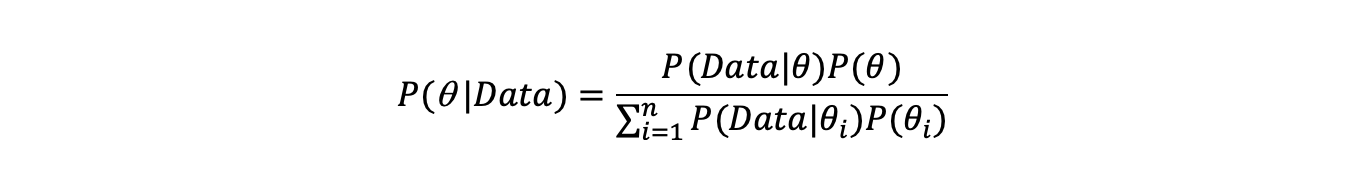
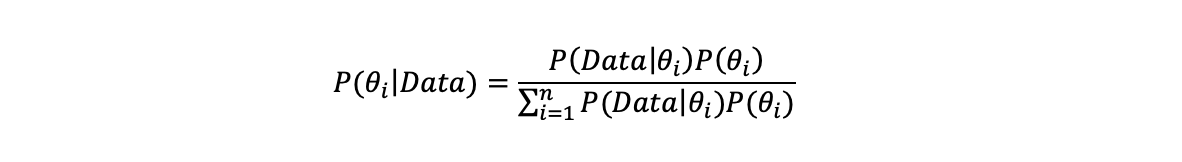
fix typos

Changed region(s): [[0.2741, 0.2778, 0.7005, 0.8025]]

diff --git a/technical/bayes1/index.html b/technical/bayes1/index.html
@@ -9,7 +9,7 @@
 <meta name="keywords" content="technical" />
 <meta name="description" content="Ilke Sahin&rsquo;s &lsquo;Water Canals (Aquaducts)&rsquo; at Goldsmiths degree show 2024
 This note reviews some basic aspects of Bayesian inference to refresh my knowledge of it and some of the probability distributions it often uses.
-1. Finding the most probable parameters given the data using Bayes’ theorem We want to find the best hypothesis or model parameter(s) that describes the data. Bayes’ theorem allows us to write down the formula for the probability of model parameters or hypotheses given the data.">
+1. Finding the most probable parameters given the data using Bayes’ theorem We want to find the best hypothesis or model parameter(s) that describes the data. Bayes’ theorem allows us to write down a general formula for this:">
 <meta name="author" content="John Davies">
 <link rel="canonical" href="https://johnardavies.github.io/technical/bayes1/" />
 <link crossorigin="anonymous" href="https://johnardavies.github.io/assets/css/stylesheet.min.5e2b4101351c21e906f398ae96901791830f58d430f96f2659dab7eaef7b3cb7.css" integrity="sha256-XitBATUcIekG85iulpAXkYMPWNQw&#43;W8mWdq36u97PLc=" rel="preload stylesheet" as="style">
@@ -56,7 +56,7 @@ if (!doNotTrack) {
 <meta property="og:title" content="Bayes 1: Introduction to Bayesian inference" />
 <meta property="og:description" content="Ilke Sahin&rsquo;s &lsquo;Water Canals (Aquaducts)&rsquo; at Goldsmiths degree show 2024
 This note reviews some basic aspects of Bayesian inference to refresh my knowledge of it and some of the probability distributions it often uses.
-1. Finding the most probable parameters given the data using Bayes’ theorem We want to find the best hypothesis or model parameter(s) that describes the data. Bayes’ theorem allows us to write down the formula for the probability of model parameters or hypotheses given the data." />
+1. Finding the most probable parameters given the data using Bayes’ theorem We want to find the best hypothesis or model parameter(s) that describes the data. Bayes’ theorem allows us to write down a general formula for this:" />
 <meta property="og:type" content="article" />
 <meta property="og:url" content="https://johnardavies.github.io/technical/bayes1/" />
 <meta property="og:image" content="https://johnardavies.github.io/ilkesahin.jpeg" /><meta property="article:section" content="technical" />
@@ -68,7 +68,7 @@ This note reviews some basic aspects of Bayesian inference to refresh my knowled
 <meta name="twitter:title" content="Bayes 1: Introduction to Bayesian inference"/>
 <meta name="twitter:description" content="Ilke Sahin&rsquo;s &lsquo;Water Canals (Aquaducts)&rsquo; at Goldsmiths degree show 2024
 This note reviews some basic aspects of Bayesian inference to refresh my knowledge of it and some of the probability distributions it often uses.
-1. Finding the most probable parameters given the data using Bayes’ theorem We want to find the best hypothesis or model parameter(s) that describes the data. Bayes’ theorem allows us to write down the formula for the probability of model parameters or hypotheses given the data."/>
+1. Finding the most probable parameters given the data using Bayes’ theorem We want to find the best hypothesis or model parameter(s) that describes the data. Bayes’ theorem allows us to write down a general formula for this:"/>
 
 
 <script type="application/ld+json">
@@ -97,12 +97,12 @@ This note reviews some basic aspects of Bayesian inference to refresh my knowled
   "@type": "BlogPosting",
   "headline": "Bayes 1: Introduction to Bayesian inference",
   "name": "Bayes 1: Introduction to Bayesian inference",
-  "description": "Ilke Sahin\u0026rsquo;s \u0026lsquo;Water Canals (Aquaducts)\u0026rsquo; at Goldsmiths degree show 2024\nThis note reviews some basic aspects of Bayesian inference to refresh my knowledge of it and some of the probability distributions it often uses.\n1. Finding the most probable parameters given the data using Bayes’ theorem We want to find the best hypothesis or model parameter(s) that describes the data. Bayes’ theorem allows us to write down the formula for the probability of model parameters or hypotheses given the data.",
+  "description": "Ilke Sahin\u0026rsquo;s \u0026lsquo;Water Canals (Aquaducts)\u0026rsquo; at Goldsmiths degree show 2024\nThis note reviews some basic aspects of Bayesian inference to refresh my knowledge of it and some of the probability distributions it often uses.\n1. Finding the most probable parameters given the data using Bayes’ theorem We want to find the best hypothesis or model parameter(s) that describes the data. Bayes’ theorem allows us to write down a general formula for this:",
   "keywords": [
     "technical"
   ],
-  "articleBody": "Ilke Sahin’s ‘Water Canals (Aquaducts)’ at Goldsmiths degree show 2024\nThis note reviews some basic aspects of Bayesian inference to refresh my knowledge of it and some of the probability distributions it often uses.\n1. Finding the most probable parameters given the data using Bayes’ theorem We want to find the best hypothesis or model parameter(s) that describes the data. Bayes’ theorem allows us to write down the formula for the probability of model parameters or hypotheses given the data.\nThis is called the posterior distribution. It consists of a prior, a likelihood, and a marginal likelihood (sometimes called the Evidence). The prior gives the assumed probability distribution of model parameters/hypotheses before any data. This can reflect pre-existing beliefs and/or logical/physical constraints. The likelihood gives the probability of the observed data given a set of parameter values/hypotheses. The marginal likelihood is the probability of the data given all possible values the model parameters might take (or all possible hypotheses).\nThe starting point in a Bayesian approach is that there is assumed to be an uncertainty about the model parameters which we capture with a prior distribution and then update the posterior as new data comes in. By contrast, in a frequentist approach, the starting assumption is that there are assumed to be true underlying model parameters and the data generates uncertainty in our estimates. We capture this uncertainty in a frequentist approach in the sampling distribution of the estimates, but the data these distributions are based on is assumed to be generated by fixed model parameters.\nIf a parameter or hypothesis can only take discrete values e.g. does a photo (the data) contain person A (hypothesis 1) or does it not (hypothesis 2). Then the Bayesian formula looks like the below, and the marginal likelihood is a sum over all possible states:\nIf the parameter can take an infinite number of values, for example a parameter specifying a distribution, then the denominator becomes an integral:\nWe often went to find the value of theta that maximises the posterior and so is most probable value given the data. The marginal likelihood does not depend on theta as we integrate over all possible values of it. It therefore represents a normalisation constant which will not affect the optimal value of theta. As a result a lot of Bayesian statistics is about evaluating the likelihood*prior, rather than the full posterior, to estimate the optimal parameter. For a given model the marginal likelihood is fixed, but it can vary between models with different numbers and types of parameters and so different scope to explain the data. It therefore has a role in choosing between different kinds of models.\nTo make the posterior more concrete we now work through a simple example of calculating it based on a Poisson likelihood and a Gamma prior distribution. These functional forms allow the posterior to be completely solved analytically. In many cases this is though not possible and techniques like Markov Chain Monte Carlo (MCMC) have to be used to estimate the posterior.\n2. The Likelihood: The Poisson distribution The Poisson distribution gives the probability that a certain number of types of events x occur in an interval (such as a time period or number of discrete events). Its probability distribution below has both a mean and variance of lambda.\nSumming it from x=0 to infinity and using the Taylor expansion it sums to 1 as a probability distribution should.\nCalculating the expected value:\nThe Poisson is the limit of the Binomial distribution. This is the distribution of x outcomes from n trials where there are two possible states e.g. how many heads from n coin tosses, when we have a large number of trials). Where p+q=1 and p=lambda*n the Binomial distribution tends to the Poisson as sample sizes get large.\nThe Poisson distribution gives the probability of x states as the number of trials gets large. Assuming the values of the observed data are independent the likelihood function is the product of the Poisson distributions for each observed value. The likelihood of the data then becomes:\n3. The Prior: The Gamma distribution Having got an expression for the likelihood of lambda given the data we now examine a prior for the lambda. A standard prior for a variable with a Poisson likelihood distribution is the Gamma distribution shown below. As the Gamma distribution is defined from 0 to infinity, it gives a probability distribution over the possible values that lambda could take (which cannot be negative). The distribution is specified by two parameters alpha and beta.\nWhere Gamma(alpha) is the Gamma function which generalises the factorial function ! to continuous numbers. It has the functional form:\nThat this Gamma distribution integrates to 1 can be seen by integrating it over x between 0 and infinity.\nwhich is the same as the Gamma function in the denominator, so the whole thing integrates to 1\nThe mean of the Gamma distribution is alpha/beta. Taking the expectation of the distribution:\nNormalising by the Gamma function in the denominator then cancels the Gamma function in the numerator giving E(x)=α/β\n4. Calculating the Posterior distribution analytically With this prior and likelihood, we can substitute into Bayes’ formula and directly calculate the probability of the lambda parameter given the data. In the denominator with the marginal likelihood, we integrate over all values of lambda (here using the variable u) to give the probability of the data conditional on all possible values of lambda. The Gamma prior is specified by two parameters alpha0 and beta0.\nA Gamma prior distribution and a Poisson likelihood generates a posterior that is itself a Gamma distribution.\nNow we can see that the posterior also has a Gamma distribution just like the prior and updates the prior with new data while maintaining the same functional form. If we have no data i.e. xi=0 we get back the original prior:\nAs as we get more datapoints we just update this formula. The original alpha parameter in the posterior is increased by the sum of the subsequent observed datapoints. The beta parameter is increased by the number of new datapoints i.e.\nWhen a prior combined with a given likelihood leads to a posterior distribution of the same functional form it is known as a conjugate prior. Another example of a conjugate prior is that a Normal prior and a Normal likelihood gives a posterior Normal distribution. For a Binomial likelihood and a Beta prior distribution the posterior will also have a Beta distribution.\nWe can see from the numerical example below that as we add more data the posterior moves away from the prior.\nimport numpy as np import math import matplotlib.pyplot as plot from scipy.special import gamma, factorial def posterior(lambda_val, alpha, beta, data): \"\"\"function that gives the values of the gamma posterior for different values of alpha, beta and data\"\"\" count_no = len(data) sum_val = sum(data) new_beta = count_no + beta new_alpha = alpha + sum_val numerator = ( ((new_beta) ** new_alpha) * np.exp(-lambda_val * (new_beta)) * (lambda_val ** (new_alpha - 1)) ) denominator = gamma(new_alpha - 1) val = numerator / denominator return val l_vals = np.linspace(0, 10, 100) chart_0 = posterior(l_vals, 2, 2, []) chart_1 = posterior(l_vals, 2, 2, list(np.random.poisson(6, 1))) chart_2 = posterior(l_vals, 2, 2, list(np.random.poisson(6, 5))) chart_3 = posterior(l_vals, 2, 2, list(np.random.poisson(6, 10))) fig, axs = plot.subplots(4, figsize=(12, 15)) fig.suptitle('How the posterior changes as we get more data') y_min = min(chart_0.min(), chart_1.min(), chart_2.min(), chart_3.min()) y_max = max(chart_0.max(), chart_1.max(), chart_2.max(), chart_3.max()) axs[0].plot(x_vals, chart_0) axs[0].set_title('Posterior with no data points i.e. Prior') #axs[0].set_ylim(y_min, y_max) axs[0].legend() axs[1].plot(x_vals, chart_1) axs[1].set_title('Posterior with 1 data point') #axs[1].set_ylim(y_min, y_max) axs[1].legend() axs[2].plot(x_vals, chart_2) axs[2].set_title('Posterior with 10 data points') #axs[2].set_ylim(y_min, y_max) axs[2].legend() axs[3].plot(x_vals, chart_3) axs[3].set_title('Posterior with 25 data points') #axs[3].set_ylim(y_min, y_max) axs[3].legend() References: Donovan, T. and Mickey, R. ‘Bayesian Statistics for Beginners’\nEfron, B. and Hastie, T., ‘Computer Age Statistical Inference’\nWilliams, D., ‘A course in probability and Statistics’\n",
-  "wordCount" : "1313",
+  "articleBody": "Ilke Sahin’s ‘Water Canals (Aquaducts)’ at Goldsmiths degree show 2024\nThis note reviews some basic aspects of Bayesian inference to refresh my knowledge of it and some of the probability distributions it often uses.\n1. Finding the most probable parameters given the data using Bayes’ theorem We want to find the best hypothesis or model parameter(s) that describes the data. Bayes’ theorem allows us to write down a general formula for this:\nThis is called the posterior distribution. It consists of a prior, a likelihood, and a marginal likelihood (sometimes called the evidence). The prior gives the assumed probability distribution of model parameters/hypotheses before any data. This can reflect pre-existing beliefs and/or logical/physical constraints. The likelihood gives the probability of the observed data given a set of parameter values/hypotheses. The marginal likelihood is the probability of the data given all possible hypotheses/values the model parameters might take.\nThe starting point in a Bayesian approach is that there is assumed to be an uncertainty about the model parameters which we capture with a prior distribution and then update the posterior as new data comes in. By contrast, in a frequentist approach, there are assumed to be true underlying model parameters and the data sampled from the model generates uncertainty in our parameter estimates. We capture this uncertainty in a frequentist approach in the sampling distribution of the estimates.\nIf a parameter or hypothesis can only take discrete values e.g. does a photo (the data) contain person A (hypothesis 1) or does it not (hypothesis 2). Then the Bayesian formula looks like the below, and the marginal likelihood is a sum over all possible states:\nIf the parameter can take an infinite number of values, for example a parameter specifying a distribution, then the denominator becomes an integral:\nWe often went to find the value of theta that maximises the posterior and so is most probable value given the data. The marginal likelihood does not depend on theta as we integrate over all possible values of it. It therefore represents a normalisation constant which will not affect the optimal value of theta. As a result a lot of Bayesian statistics is about evaluating the likelihood*prior, rather than the full posterior, to estimate the optimal parameter. For a given model the marginal likelihood is fixed, but it can vary between models with different numbers and types of parameters and so different scope to explain the data. It therefore has a role in choosing between models.\nTo make the posterior more concrete we now work through a simple example of calculating it based on a Poisson likelihood and a Gamma prior distribution. These functional forms allow the posterior to be completely solved analytically. This is often not possible and techniques like Markov Chain Monte Carlo (MCMC) have to be used to estimate the posterior.\n2. The Likelihood: The Poisson distribution The Poisson distribution gives the probability that a certain number of types of events x occur in an interval (such as a time period or number of discrete events). Its probability distribution below has both a mean and variance of lambda.\nSumming it from x=0 to infinity and using the Taylor expansion it sums to 1 as a probability distribution should.\nCalculating the expected value:\nThe Poisson is the limit of the Binomial distribution. This is the distribution of x outcomes from n trials where there are two possible states e.g. how many heads from n coin tosses. Where p+q=1 and lambda=p*n the Binomial distribution tends to the Poisson as sample sizes get large.\nAssuming different observations are independent of each other then likelihood function is the product of the Poisson distributions for each observed value. The likelihood of the data then becomes:\n3. The Prior: The Gamma distribution Having got an expression for the likelihood of lambda given the data we now examine a prior for the lambda. A standard prior for a variable with a Poisson likelihood distribution is the Gamma distribution shown below. As the Gamma distribution is defined from 0 to infinity it gives a probability distribution over the values lambda could take (which cannot be negative). The distribution is specified by two parameters alpha and beta.\nWhere Gamma(alpha) is the Gamma function which generalises the factorial function ! to the real numbers. It has the functional form:\nThat this Gamma distribution integrates to 1 can be seen by integrating it over x between 0 and infinity.\nwhich is the same as the Gamma function in the denominator, so the whole thing integrates to 1\nThe mean of the Gamma distribution is alpha/beta. Taking the expectation of the distribution:\nNormalising by the Gamma function in the denominator then cancels the Gamma function in the numerator giving E(x)=α/β\n4. Calculating the Posterior distribution analytically With this prior and likelihood, we can substitute into Bayes’ formula and directly calculate the probability of the lambda parameter given the data. In the denominator with the marginal likelihood, we integrate over all values of lambda (here using the variable u) to give the probability of the data conditional on all possible values of lambda. The Gamma prior is specified by two parameters alpha0 and beta0.\nA Gamma prior distribution and a Poisson likelihood generates a posterior that is itself a Gamma distribution.\nNow we can see that the posterior also has a Gamma distribution just like the prior and updates the prior with new data while maintaining the same functional form. If we have no data i.e. xi=0 we get back the original prior:\nAs as we get more datapoints we just update this formula. The original alpha parameter in the posterior is increased by the sum of the subsequent observed datapoints. The beta parameter is increased by the number of new datapoints i.e.\nWhen a prior combined with a given likelihood leads to a posterior distribution of the same functional form it is known as a conjugate prior. Another example of a conjugate prior is that a Normal prior and a Normal likelihood gives a posterior Normal distribution. For a Binomial likelihood and a Beta prior distribution the posterior will also have a Beta distribution.\nWe can see from the numerical example below that as we add more data the posterior moves away from the prior.\nimport numpy as np import math import matplotlib.pyplot as plot from scipy.special import gamma, factorial def posterior(lambda_val, alpha, beta, data): \"\"\"function that gives the values of the gamma posterior for different values of alpha, beta and data\"\"\" count_no = len(data) sum_val = sum(data) new_beta = count_no + beta new_alpha = alpha + sum_val numerator = ( ((new_beta) ** new_alpha) * np.exp(-lambda_val * (new_beta)) * (lambda_val ** (new_alpha - 1)) ) denominator = gamma(new_alpha - 1) val = numerator / denominator return val l_vals = np.linspace(0, 10, 100) chart_0 = posterior(l_vals, 2, 2, []) chart_1 = posterior(l_vals, 2, 2, list(np.random.poisson(6, 1))) chart_2 = posterior(l_vals, 2, 2, list(np.random.poisson(6, 5))) chart_3 = posterior(l_vals, 2, 2, list(np.random.poisson(6, 10))) fig, axs = plot.subplots(4, figsize=(12, 15)) fig.suptitle('How the posterior changes as we get more data') y_min = min(chart_0.min(), chart_1.min(), chart_2.min(), chart_3.min()) y_max = max(chart_0.max(), chart_1.max(), chart_2.max(), chart_3.max()) axs[0].plot(x_vals, chart_0) axs[0].set_title('Posterior with no data points i.e. Prior') #axs[0].set_ylim(y_min, y_max) axs[0].legend() axs[1].plot(x_vals, chart_1) axs[1].set_title('Posterior with 1 data point') #axs[1].set_ylim(y_min, y_max) axs[1].legend() axs[2].plot(x_vals, chart_2) axs[2].set_title('Posterior with 10 data points') #axs[2].set_ylim(y_min, y_max) axs[2].legend() axs[3].plot(x_vals, chart_3) axs[3].set_title('Posterior with 25 data points') #axs[3].set_ylim(y_min, y_max) axs[3].legend() References: Donovan, T. and Mickey, R. ‘Bayesian Statistics for Beginners’\nEfron, B. and Hastie, T., ‘Computer Age Statistical Inference’\nWilliams, D., ‘A course in probability and Statistics’\n",
+  "wordCount" : "1252",
   "inLanguage": "en",
   "image":"https://johnardavies.github.io/ilkesahin.jpeg","datePublished": "2024-07-20T00:00:00Z",
   "dateModified": "2024-07-20T00:00:00Z",
@@ -212,19 +212,18 @@ This note reviews some basic aspects of Bayesian inference to refresh my knowled
   <div class="post-content"><p><a href="https://ilkesahin.com/index.html">Ilke Sahin&rsquo;s</a> &lsquo;Water Canals (Aquaducts)&rsquo; at Goldsmiths degree show 2024</p>
 <p>This note reviews some basic aspects of Bayesian inference to refresh my knowledge of it and some of the probability distributions it often uses.</p>
 <h3 id="1-finding-the-most-probable-parameters-given-the-data-using-bayes-theorem">1. Finding the most probable parameters given the data using Bayes’ theorem<a hidden class="anchor" aria-hidden="true" href="#1-finding-the-most-probable-parameters-given-the-data-using-bayes-theorem">#</a></h3>
-<p>We want to find the best hypothesis or model parameter(s) that describes the data. Bayes’ theorem allows us to write down the formula for the
-probability of model parameters or hypotheses given the data.</p>
+<p>We want to find the best hypothesis or model parameter(s) that describes the data. Bayes’ theorem allows us to write down a general formula for
+this:</p>
 <p><img loading="lazy" src="https://johnardavies.github.io/bayes1.png" alt="Bayes 1"  />
 </p>
-<p>This is called the posterior distribution. It consists of a prior, a likelihood, and a marginal likelihood (sometimes called the Evidence). The prior
+<p>This is called the posterior distribution. It consists of a prior, a likelihood, and a marginal likelihood (sometimes called the evidence). The prior
 gives the assumed probability distribution of model parameters/hypotheses before any data. This can reflect pre-existing beliefs and/or
 logical/physical constraints. The likelihood gives the probability of the observed data given a set of parameter values/hypotheses. The marginal
-likelihood is the probability of the data given all possible values the model parameters might take (or all possible hypotheses).</p>
+likelihood is the probability of the data given all possible hypotheses/values the model parameters might take.</p>
 <p>The starting point in a Bayesian approach is that there is assumed to be an uncertainty about the model parameters which we capture with a prior
-distribution and then update the posterior as new data comes in. By contrast, in a frequentist approach, the starting assumption is that there are
-assumed to be true underlying model parameters and the data generates uncertainty in our estimates. We capture this uncertainty in a frequentist
-approach in the sampling distribution of the estimates, but the data these distributions are based on is assumed to be generated by fixed model
-parameters.</p>
+distribution and then update the posterior as new data comes in. By contrast, in a frequentist approach, there are
+assumed to be true underlying model parameters and the data sampled from the model generates uncertainty in our parameter estimates. We capture this
+uncertainty in a frequentist approach in the sampling distribution of the estimates.</p>
 <p>If a parameter or hypothesis can only take discrete values e.g. does a photo (the data) contain person A (hypothesis 1) or does it not
 (hypothesis 2). Then the Bayesian formula looks like the below, and the marginal likelihood is a sum over all possible states:</p>
 <p><img loading="lazy" src="https://johnardavies.github.io/bayes2.png" alt="Bayes 2"  />
@@ -236,9 +235,9 @@ parameters.</p>
 depend on theta as we integrate over all possible values of it. It therefore represents a normalisation constant which will not affect the optimal
 value of theta. As a result a lot of Bayesian statistics is about evaluating the likelihood*prior, rather than the full posterior, to estimate the
 optimal parameter. For a given model the marginal likelihood is fixed, but it can vary between models with different numbers and types of
-parameters and so different scope to explain the data. It therefore has a role in choosing between different kinds of models.</p>
+parameters and so different scope to explain the data. It therefore has a role in choosing between models.</p>
 <p>To make the posterior more concrete we now work through a simple example of calculating it based on a Poisson likelihood
-and a Gamma prior distribution. These functional forms allow the posterior to be completely solved analytically. In many cases this is though not
+and a Gamma prior distribution. These functional forms allow the posterior to be completely solved analytically. This is often not
 possible and techniques like Markov Chain Monte Carlo (MCMC) have to be used to estimate the posterior.</p>
 <h3 id="2-the-likelihood-the-poisson-distribution">2. The Likelihood: The Poisson distribution<a hidden class="anchor" aria-hidden="true" href="#2-the-likelihood-the-poisson-distribution">#</a></h3>
 <p>The Poisson distribution gives the probability that a certain number of types of events x occur in an interval (such as a time period or number of
@@ -252,22 +251,22 @@ discrete events). Its probability distribution below has both a mean and varianc
 <p><img loading="lazy" src="https://johnardavies.github.io/poisson3.png" alt="poisson 3"  />
 </p>
 <p>The Poisson is the limit of the Binomial distribution. This is the distribution of x outcomes from n trials where there are two
-possible states e.g. how many heads from n coin tosses, when we have a large number of trials). Where p+q=1 and p=lambda*n the Binomial distribution tends to the Poisson as sample
-sizes get large.</p>
+possible states e.g. how many heads from n coin tosses. Where p+q=1 and lambda=p*n the Binomial distribution
+tends to the Poisson as sample sizes get large.</p>
 <p><img loading="lazy" src="https://johnardavies.github.io/poisson4.png" alt="poisson 4"  />
 </p>
-<p>The Poisson distribution gives the probability of x states as the number of trials gets large. Assuming the values of the observed data are
-independent the likelihood function is the product of the Poisson distributions for each observed value. The likelihood of the data then becomes:</p>
+<p>Assuming different observations are independent of each other then likelihood function is the product of the Poisson distributions for each
+observed value. The likelihood of the data then becomes:</p>
 <p><img loading="lazy" src="https://johnardavies.github.io/poisson5.png" alt="poisson 5"  />
 </p>
 <h3 id="3-the-prior-the-gamma-distribution">3. The Prior: The Gamma distribution<a hidden class="anchor" aria-hidden="true" href="#3-the-prior-the-gamma-distribution">#</a></h3>
 <p>Having got an expression for the likelihood of lambda given the data we now examine a prior for the lambda. A standard prior for a variable with a
-Poisson likelihood distribution is the Gamma distribution shown below. As the Gamma distribution is defined from 0 to infinity, it gives a
-probability distribution over the possible values that lambda could take (which cannot be negative). The distribution is specified by two parameters
+Poisson likelihood distribution is the Gamma distribution shown below. As the Gamma distribution is defined from 0 to infinity it gives a
+probability distribution over the values lambda could take (which cannot be negative). The distribution is specified by two parameters
 alpha and beta.</p>
 <p><img loading="lazy" src="https://johnardavies.github.io/gamma1.png" alt="gamma 1"  />
 </p>
-<p>Where Gamma(alpha) is the Gamma function which generalises the factorial function ! to continuous numbers. It has the functional form:</p>
+<p>Where Gamma(alpha) is the Gamma function which generalises the factorial function ! to the real numbers. It has the functional form:</p>
 <p><img loading="lazy" src="https://johnardavies.github.io/gamma2.png" alt="gamma 2"  />
 </p>
 <p>That this Gamma distribution integrates to 1 can be seen by integrating it over x between 0 and infinity.</p>

diff --git a/categories/technical/index.html b/categories/technical/index.html
@@ -145,7 +145,7 @@ if (!doNotTrack) {
   <section class="entry-content">
     <p>Ilke Sahin’s ‘Water Canals (Aquaducts)’ at Goldsmiths degree show 2024
 This note reviews some basic aspects of Bayesian inference to refresh my knowledge of it and some of the probability distributions it often uses.
-1. Finding the most probable parameters given the data using Bayes’ theorem We want to find the best hypothesis or model parameter(s) that describes the data. Bayes’ theorem allows us to write down the formula for the probability of model parameters or hypotheses given the data....</p>
+1. Finding the most probable parameters given the data using Bayes’ theorem We want to find the best hypothesis or model parameter(s) that describes the data. Bayes’ theorem allows us to write down a general formula for this:...</p>
   </section>
   <footer class="entry-footer">July 20, 2024&nbsp;·&nbsp;John Davies</footer>
   <a class="entry-link" aria-label="post link to Bayes 1: Introduction to Bayesian inference" href="https://johnardavies.github.io/technical/bayes1/"></a>

diff --git a/tags/technical/index.html b/tags/technical/index.html
@@ -145,7 +145,7 @@ if (!doNotTrack) {
   <section class="entry-content">
     <p>Ilke Sahin’s ‘Water Canals (Aquaducts)’ at Goldsmiths degree show 2024
 This note reviews some basic aspects of Bayesian inference to refresh my knowledge of it and some of the probability distributions it often uses.
-1. Finding the most probable parameters given the data using Bayes’ theorem We want to find the best hypothesis or model parameter(s) that describes the data. Bayes’ theorem allows us to write down the formula for the probability of model parameters or hypotheses given the data....</p>
+1. Finding the most probable parameters given the data using Bayes’ theorem We want to find the best hypothesis or model parameter(s) that describes the data. Bayes’ theorem allows us to write down a general formula for this:...</p>
   </section>
   <footer class="entry-footer">July 20, 2024&nbsp;·&nbsp;John Davies</footer>
   <a class="entry-link" aria-label="post link to Bayes 1: Introduction to Bayesian inference" href="https://johnardavies.github.io/technical/bayes1/"></a>

diff --git a/technical/index.html b/technical/index.html
@@ -160,7 +160,7 @@ if (!doNotTrack) {
   <section class="entry-content">
     <p>Ilke Sahin’s ‘Water Canals (Aquaducts)’ at Goldsmiths degree show 2024
 This note reviews some basic aspects of Bayesian inference to refresh my knowledge of it and some of the probability distributions it often uses.
-1. Finding the most probable parameters given the data using Bayes’ theorem We want to find the best hypothesis or model parameter(s) that describes the data. Bayes’ theorem allows us to write down the formula for the probability of model parameters or hypotheses given the data....</p>
+1. Finding the most probable parameters given the data using Bayes’ theorem We want to find the best hypothesis or model parameter(s) that describes the data. Bayes’ theorem allows us to write down a general formula for this:...</p>
   </section>
   <footer class="entry-footer">July 20, 2024&nbsp;·&nbsp;John Davies</footer>
   <a class="entry-link" aria-label="post link to Bayes 1: Introduction to Bayesian inference" href="https://johnardavies.github.io/technical/bayes1/"></a>
